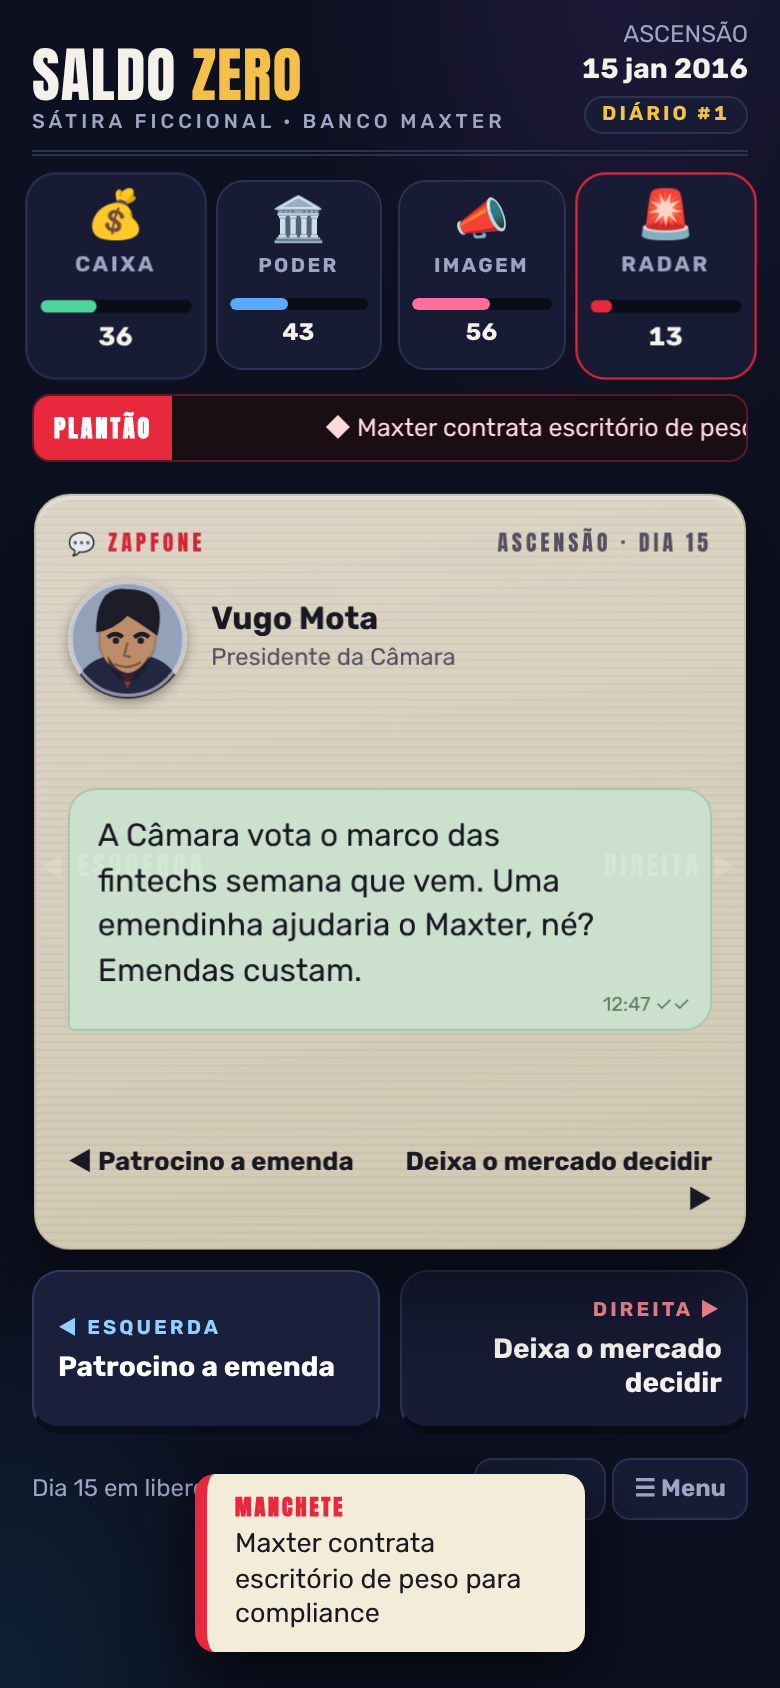
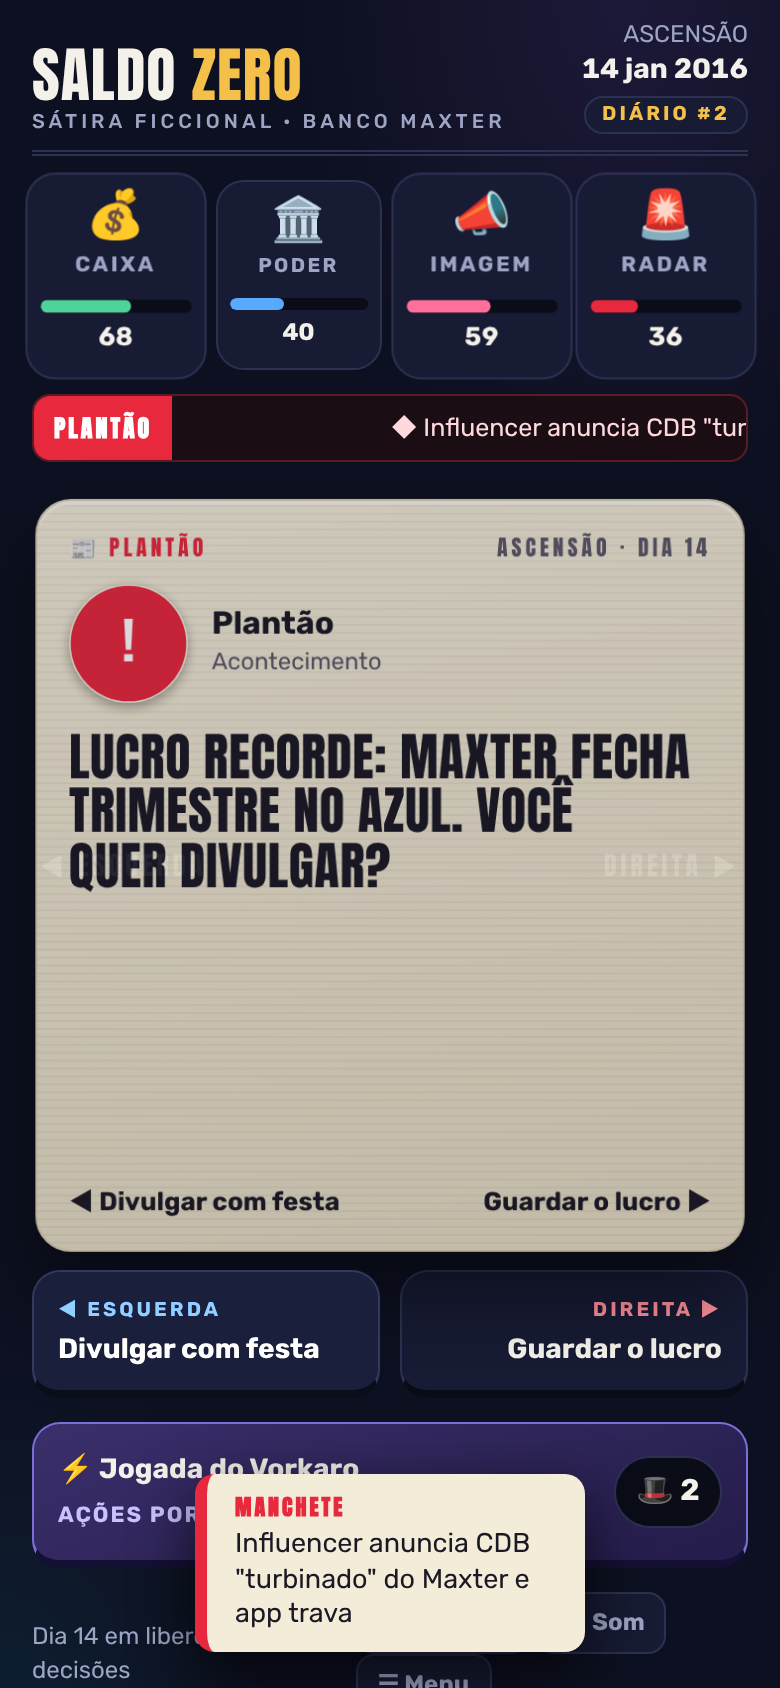
feat: UatiZap, layout responsivo para desktop e tablet, partida salva
- Aba UatiZap: conversas da partida por personagem, com a mensagem
  recebida e a resposta escolhida, canal Plantão com manchetes e
  jogadas, não lidas e marcação de dia.
- Desktop (≥1000px): duas colunas, jogo à esquerda e UatiZap fixo à
  direita; tablet (≥600px) com largura maior; telas de menu mais largas.
- Partida em andamento salva no navegador com "Continuar a partida".

Claude-Session: https://claude.ai/code/session_01EWvJA1ecaXonGRcfVn5uXE

diff --git a/game.html b/game.html
@@ -164,6 +164,42 @@ button:focus-visible,[tabindex]:focus-visible{outline:3px solid var(--gold);outl
 .moves{display:grid;gap:8px}.moves button{display:flex;align-items:center;gap:12px;background:var(--ink-2);border:1px solid var(--line);border-radius:14px;padding:12px;text-align:left}.moves button:disabled{opacity:.45}.moves .ico{font-size:26px}.moves .txt{flex:1;min-width:0}.moves .txt b{display:block}.moves .txt small{color:var(--mute);display:block}.moves .cost{white-space:nowrap;color:var(--gold);font-weight:800;font-size:13px}
 .rank{margin:0;padding-left:22px;display:grid;gap:5px;font-size:14px}.rank li{display:flex;justify-content:space-between;gap:10px}.rank li span{overflow:hidden;text-overflow:ellipsis;white-space:nowrap;min-width:0}.rank li b{white-space:nowrap;font-variant-numeric:tabular-nums}
 .mastpick{display:flex;gap:8px;flex-wrap:wrap}.mastpick button{font-family:var(--display);font-size:12px;letter-spacing:1px;padding:8px 10px;border-radius:9px;background:var(--ink-2);border:1px solid var(--line);color:var(--mute)}.mastpick button.on{color:var(--gold);border-color:var(--gold)}
+/* UatiZap */
+.zap .inner{gap:0;background:#0b1512;border:1px solid #1f3a31;border-radius:18px;overflow:hidden;min-height:70vh}
+.zap-top{display:flex;justify-content:space-between;align-items:center;background:#14312a;padding:14px 16px;border-bottom:1px solid #245244}
+.zap-top b{font-family:var(--display);font-size:22px;letter-spacing:1px;color:#b9f5d8}.zap-top small{display:block;color:#8fc9b0;font-size:12px}
+.zap-close{color:#b9f5d8;font-size:20px;padding:4px 8px}
+.zap-list{display:flex;flex-direction:column}
+.zap-list button{display:flex;align-items:center;gap:12px;padding:12px 14px;border-bottom:1px solid #16302a;text-align:left;width:100%}
+.zap-list button:hover{background:#10231e}
+.zap-list .body{flex:1;min-width:0}.zap-list .body b{display:block;font-size:14px;color:#eafff4}.zap-list .body small{display:block;color:#8fb5a4;font-size:12.5px;white-space:nowrap;overflow:hidden;text-overflow:ellipsis}
+.zap-list .meta{text-align:right;font-size:11px;color:#6f9a89;white-space:nowrap}.zap-list .meta i{display:inline-flex;align-items:center;justify-content:center;min-width:20px;height:20px;border-radius:10px;background:#25d366;color:#07251b;font-style:normal;font-weight:800;margin-top:4px;font-size:11px;padding:0 6px}
+.zap-empty{padding:40px 20px;text-align:center;color:#8fb5a4}
+.zap-chat{display:flex;flex-direction:column;min-height:60vh}
+.zap-head{display:flex;align-items:center;gap:10px;background:#14312a;padding:10px 12px;border-bottom:1px solid #245244}.zap-head button{font-size:26px;color:#b9f5d8;padding:0 6px}.zap-head b{display:block;font-size:14px;color:#eafff4}.zap-head small{display:block;color:#8fc9b0;font-size:11px}
+.zap-msgs{flex:1;display:flex;flex-direction:column;gap:8px;padding:14px 12px 20px;background:radial-gradient(circle at 20% 10%,#17352c66,transparent 50%),#0b1512}
+.zap-day{align-self:center;background:#1c2f2a;color:#9fd1bb;font-size:10px;letter-spacing:1px;padding:4px 10px;border-radius:8px;margin:6px 0}
+.zap-b{max-width:86%;padding:9px 12px 16px;border-radius:12px;font-size:14px;line-height:1.35;position:relative}
+.zap-b.in{align-self:flex-start;background:#1e2d2a;color:#eafff4;border-top-left-radius:3px}
+.zap-b.out{align-self:flex-end;background:#1f6f52;color:#f2fff8;border-top-right-radius:3px}
+.zap-b.news{align-self:stretch;max-width:100%;background:#2b1d22;border-left:4px solid var(--red);color:#ffe1e6;font-weight:600}
+.zap-b small{position:absolute;right:8px;bottom:3px;font-size:9.5px;color:#9fd1bb}.zap-b.out small{color:#c7f1dc}
+#btnZap{position:relative}#zapUnread{display:none;position:absolute;top:-6px;right:-6px;min-width:18px;height:18px;border-radius:9px;background:#25d366;color:#07251b;font-size:11px;font-weight:800;align-items:center;justify-content:center;padding:0 5px}#zapUnread.on{display:inline-flex}
+
+/* Tablet */
+@media (min-width:600px){.app{max-width:560px}.stage{height:420px}.screen .inner{max-width:560px}}
+/* Desktop: jogo à esquerda, UatiZap fixo à direita */
+@media (min-width:1000px){
+  .app{max-width:1200px;display:grid;grid-template-columns:minmax(0,520px) minmax(380px,1fr);grid-template-areas:"mast mast" "stats zap" "ticker zap" "stage zap" "choices zap" "movebar zap" "foot zap";column-gap:32px;align-items:start;padding-block:18px 32px}
+  .mast{grid-area:mast}.stats{grid-area:stats}.ticker{grid-area:ticker}.stage{grid-area:stage;height:460px}.choices{grid-area:choices}.movebar{grid-area:movebar}.foot{grid-area:foot}
+  #zapScreen{grid-area:zap;position:sticky;top:12px;inset:auto;padding:0;background:none;backdrop-filter:none;overflow:visible;z-index:1;max-height:calc(100vh - 24px)}
+  #zapScreen[hidden]{display:block!important}
+  #zapScreen .inner{max-width:none;min-height:0;max-height:calc(100vh - 24px);overflow:auto}
+  #btnZap,.zap-close{display:none}
+  .screen .inner{max-width:640px}
+  .h1{font-size:54px}
+  .card .say{font-size:19px}
+}
 @media (max-width:380px){.brand{font-size:26px}.stage{height:360px}.h1{font-size:40px}.paper .ptitle{font-size:30px}}
 @media (prefers-reduced-motion:reduce){*,*::before,*::after{animation:none!important;transition:none!important}}
 </style>
@@ -205,8 +241,19 @@ button:focus-visible,[tabindex]:focus-visible{outline:3px solid var(--gold);outl
 
   <div class="foot">
     <span id="dayCount">Dia 1 em liberdade</span>
-    <span><button id="btnSound" aria-pressed="false">🔇 Som</button> <button id="btnMenu">☰ Menu</button></span>
+    <span><button id="btnZap">💬 UatiZap<span id="zapUnread">0</span></button> <button id="btnSound" aria-pressed="false">🔇 Som</button> <button id="btnMenu">☰ Menu</button></span>
   </div>
+
+<div class="screen zap" id="zapScreen" hidden>
+  <div class="inner">
+    <div class="zap-top"><div><b>UatiZap</b><small id="zapSub">mensagens desta partida</small></div><button class="zap-close" id="btnZapClose" aria-label="Fechar">✕</button></div>
+    <div id="zapList" class="zap-list"></div>
+    <div id="zapChat" class="zap-chat" hidden>
+      <div class="zap-head"><button id="zapBack" aria-label="Voltar">‹</button><span id="zapAvatar"></span><div><b id="zapName"></b><small id="zapRole"></small></div></div>
+      <div id="zapMsgs" class="zap-msgs"></div>
+    </div>
+  </div>
+</div>
 </div>
 
 <div class="toast" id="toast" role="status"><b>MANCHETE</b><span id="toastText"></span></div>
@@ -219,6 +266,7 @@ button:focus-visible,[tabindex]:focus-visible{outline:3px solid var(--gold);outl
       <h3>Desafio diário</h3>
       <p id="dailyInfo">Todo mundo joga a mesma sequência de cartas hoje. Compare seu resultado com os amigos.</p>
     </div>
+    <button class="big" id="btnResume" hidden>▶ Continuar a partida</button>
     <button class="big" id="playDaily">▶ Jogar o diário</button>
     <button class="big alt" id="playFree">Modo livre (cartas embaralhadas)</button>
     <button class="big alt" id="openShop" hidden>🛒 Loja · baralhos e capas</button>
@@ -757,8 +805,9 @@ function genHeadline(fx,rng){let best=null,bv=0;for(const k of 'cpir'){const v=M
 /* ============ State ============ */
 let s=null,rng=null,drag=null,audio=null,soundOn=store.get('sound',false);
 function newGame(mode){
+  store.set('run',null);
   const seedStr=mode==='daily'?'daily:'+todayKey():'free:'+Date.now()+':'+Math.random();
-  s={mode,seed:seedStr,day:1,turn:0,caixa:55,poder:35,imagem:50,radar:15,flags:{},seen:[],queue:[],news:['Banco Maxter busca novos investidores',safe('Empresário Danilo Vorkaro ganha destaque no mercado')],ach:[],hot:0,over:null,card:null,side:null,favores:FREE_FAVORES,appeals:0};
+  s={mode,seed:seedStr,day:1,turn:0,caixa:55,poder:35,imagem:50,radar:15,flags:{},seen:[],queue:[],news:['Banco Maxter busca novos investidores',safe('Empresário Danilo Vorkaro ganha destaque no mercado')],ach:[],hot:0,over:null,card:null,side:null,favores:FREE_FAVORES,appeals:0,log:[],zapRead:{}};
   rng=mulberry(hash(seedStr));
   s.card='entrada';
   render();dealIn();
@@ -782,6 +831,7 @@ function choose(side){
   if(s.over||!s.card)return;
   const k=BY_ID[s.card],opt=side==='l'?k.l:k.r,fx=opt[1],meta=opt[2]||{};
   s.side=side;
+  (s.log=s.log||[]).push({c:k.c,t:k.t,a:opt[0],day:s.day,kind:k.c==='narrador'?'news':'msg'});
   const before={c:s.caixa,p:s.poder,i:s.imagem,r:s.radar};
   s.caixa=clamp(s.caixa+(fx.c||0));s.poder=clamp(s.poder+(fx.p||0));s.imagem=clamp(s.imagem+(fx.i||0));s.radar=clamp(s.radar+(fx.r||0));
   // time + pressure
@@ -819,6 +869,7 @@ function finish(end){
   const achs=store.get('ach',[]);s.ach.forEach(a=>{if(!achs.includes(a))achs.push(a)});store.set('ach',achs);
   const best=store.get('best',0);if(s.day>best)store.set('best',s.day);
   if(s.mode==='daily'){const d=store.get('daily',{});if(!d[todayKey()])d[todayKey()]={day:s.day,end};store.set('daily',d)}
+  store.set('run',null);
   render();showEnd();snapshot();pushProgress();submitDailyResult();
 }
 
@@ -850,7 +901,7 @@ async function doMove(id){const a=ACTIONS.find(x=>x.id===id);if(!a||s.over)retur
   if(!(await spendFavores(a.cost)))return;$('moveScreen').hidden=true;
   const before={c:s.caixa,p:s.poder,i:s.imagem,r:s.radar},fx=a.fx;
   s.caixa=clamp(s.caixa+(fx.c||0));s.poder=clamp(s.poder+(fx.p||0));s.imagem=clamp(s.imagem+(fx.i||0));s.radar=clamp(s.radar+(fx.r||0));
-  s.day+=2;s.news.unshift(a.news);s.news=s.news.slice(0,8);toast(a.news);bumpStats(fx,before);haptic(fx);sfx('swipe');
+  s.day+=2;s.news.unshift(a.news);s.news=s.news.slice(0,8);(s.log=s.log||[]).push({c:'narrador',t:a.news,a:null,day:s.day,kind:'news',move:a.icon+' '+a.name});toast(a.news);bumpStats(fx,before);haptic(fx);sfx('swipe');
   let end=null;if(s.radar>=100)end='preso';else if(s.caixa<=0)end='falencia';else if(s.caixa>=100)end='miami';else if(s.poder>=100)end='dono';else if(s.poder<=0)end='descartado';else if(s.imagem<=0)end='cancelado';else if(s.imagem>=100)end='idolo';
   if(end){finish(end);return}render();snapshot()}
 function canAppeal(){return s&&s.over&&s.mode==='free'&&APPEAL.fix[s.over]&&s.appeals<2}
@@ -859,13 +910,36 @@ async function appeal(){if(!canAppeal())return;if(!(await spendFavores(APPEAL.co
   $('endScreen').hidden=true;s.card=pickCard();render();dealIn();toast('⚖ Recurso aceito. Por enquanto.');snapshot()}
 $('btnMove').onclick=openMoves;$('btnMoveClose').onclick=()=>{$('moveScreen').hidden=true};$('btnMoveShop').onclick=()=>{$('moveScreen').hidden=true;openShop()};$('btnAppeal').onclick=appeal;
 
+/* ============ UatiZap: conversas da partida ============ */
+let zapOpen=null;
+function zapThreads(){const by={};(s&&s.log||[]).forEach((m,i)=>{(by[m.c]=by[m.c]||[]).push(Object.assign({i},m))});return Object.entries(by).sort((a,b)=>b[1].at(-1).i-a[1].at(-1).i)}
+function zapUnreadOf(c,list){return list.length-((s.zapRead||{})[c]||0)}
+function renderZap(){if(!s)return;const threads=zapThreads();let total=0;
+  const list=$('zapList');list.innerHTML=threads.length?threads.map(([c,msgs])=>{const ch=CH[c],last=msgs.at(-1),un=zapUnreadOf(c,msgs);total+=un;
+    const preview=last.a?'Você: '+last.a:last.t;
+    return '<button data-c="'+c+'">'+avatar(c,46)+'<span class="body"><b>'+(c==='narrador'?'Plantão (canal)':ch.n)+'</b><small>'+preview+'</small></span><span class="meta">Dia '+last.day+'<br>'+(un?'<i>'+un+'</i>':'')+'</span></button>'}).join(''):
+    '<div class="zap-empty"><div style="font-size:40px">💬</div>Ninguém mandou mensagem ainda. Responda a primeira carta.</div>';
+  list.querySelectorAll('button').forEach(b=>b.onclick=()=>openZapChat(b.dataset.c));
+  const badge=$('zapUnread');badge.textContent=total;badge.classList.toggle('on',total>0);
+  $('zapSub').textContent=threads.length?threads.length+' conversa'+(threads.length>1?'s':'')+' · '+(s.log||[]).length+' mensagens':'mensagens desta partida';
+  if(zapOpen)renderZapChat(zapOpen)}
+function openZapChat(c){zapOpen=c;s.zapRead=s.zapRead||{};s.zapRead[c]=(zapThreads().find(x=>x[0]===c)||[c,[]])[1].length;renderZapChat(c);$('zapList').hidden=true;$('zapChat').hidden=false;renderZap();snapshot()}
+function renderZapChat(c){const ch=CH[c],msgs=(zapThreads().find(x=>x[0]===c)||[c,[]])[1];
+  $('zapAvatar').innerHTML=avatar(c,36);$('zapName').textContent=c==='narrador'?'Plantão (canal)':ch.n;$('zapRole').textContent=c==='narrador'?'manchetes e jogadas suas':ch.r+' · personagem fictício';
+  let lastDay=null,html='';msgs.forEach(m=>{if(m.day!==lastDay){html+='<div class="zap-day">DIA '+m.day+'</div>';lastDay=m.day}
+    if(m.kind==='news')html+='<div class="zap-b news">'+(m.move?'<span style="opacity:.8">'+m.move+'</span><br>':'')+m.t+'</div>';else html+='<div class="zap-b in">'+m.t+'<small>dia '+m.day+'</small></div>';
+    if(m.a)html+='<div class="zap-b out">'+m.a+'<small>✓✓</small></div>'});
+  const el=$('zapMsgs');el.innerHTML=html;el.scrollTop=el.scrollHeight}
+function closeZapChat(){zapOpen=null;$('zapChat').hidden=true;$('zapList').hidden=false;renderZap()}
+$('btnZap').onclick=()=>{$('zapScreen').hidden=false;renderZap()};$('btnZapClose').onclick=()=>{$('zapScreen').hidden=true};$('zapBack').onclick=closeZapChat;
+
 /* ============ Rendering ============ */
 const KEYS={caixa:'c',poder:'p',imagem:'i',radar:'r'};
 function render(){
   if(!s)return;
   $('chapter').textContent=chapterName();$('date').textContent=gameDate();
   $('modePill').textContent=s.mode==='daily'?'DIÁRIO #'+dailyNumber():'MODO LIVRE';
-  $('dayCount').textContent='Dia '+s.day+' em liberdade · '+s.turn+' decisões';renderFav();
+  $('dayCount').textContent='Dia '+s.day+' em liberdade · '+s.turn+' decisões';renderFav();renderZap();
   document.querySelectorAll('.stat').forEach(el=>{const k=el.dataset.k,v=s[k];el.querySelector('.bar i').style.width=v+'%';el.querySelector('.val').textContent=v;el.classList.toggle('danger',v>=85||v<=15)});
   $('track').innerHTML=s.news.map(n=>'<span>◆ '+n+'</span>').join('');
   const k=BY_ID[s.card];if(!k)return;
@@ -915,6 +989,7 @@ function showStart(){
   const best=store.get('best',0),ach=store.get('ach',[]);
   $('bestInfo').textContent=(best?'Recorde: '+best+' dias em liberdade. ':'Nenhuma partida ainda. ')+'Conquistas: '+ach.length+'/'+Object.keys(ACH).length+'.'+(auth&&favores?' 🎩 '+favores+' favores na conta.':'');
   if(NATIVE&&NATIVE.store)$('legalNote').textContent='Obra de ficção e sátira. Personagens, bancos, veículos e instituições são inventados. Compras opcionais apenas pela App Store.';
+  const run=store.get('run',null);const rb=$('btnResume');rb.hidden=!(run&&!run.over&&run.card&&BY_ID[run.card]);if(!rb.hidden)rb.textContent='▶ Continuar a partida · dia '+run.day+(run.mode==='daily'?' (diário)':' (livre)');
   $('startScreen').hidden=false;$('endScreen').hidden=true;renderAccount();loadRank();
 }
 function bars(v){const n=Math.round(v/20);return '▓'.repeat(n)+'░'.repeat(5-n)}
@@ -945,10 +1020,11 @@ $('btnAgain').onclick=()=>{$('endScreen').hidden=true;newGame(s.mode)};
 $('btnHome').onclick=showStart;
 $('btnMenu').onclick=showStart;
 $('playDaily').onclick=()=>{$('startScreen').hidden=true;newGame('daily')};
+$('btnResume').onclick=()=>{const run=store.get('run',null);if(!run||run.over||!BY_ID[run.card])return;s=run;s.log=s.log||[];s.zapRead=s.zapRead||{};rng=mulberry(hash(s.seed+':'+s.turn));$('startScreen').hidden=true;$('tut').hidden=true;render();dealIn()};
 $('playFree').onclick=()=>{$('startScreen').hidden=true;newGame('free')};
 
 /* ============ Boot (with hot-reload snapshot for the artifact viewer) ============ */
-function snapshot(){try{window.claude?.hot?.snapshot?.(()=>({s,rngState:null}))}catch{}}
+function snapshot(){try{window.claude?.hot?.snapshot?.(()=>({s,rngState:null}))}catch{}store.set('run',(s&&!s.over)?s:null)}
 function start(data){
   if(data&&data.s&&!data.s.over&&data.s.card){s=data.s;rng=mulberry(hash(s.seed+':'+s.turn));render();dealIn();$('startScreen').hidden=true;$('tut').hidden=true}
   else{showStart()}
